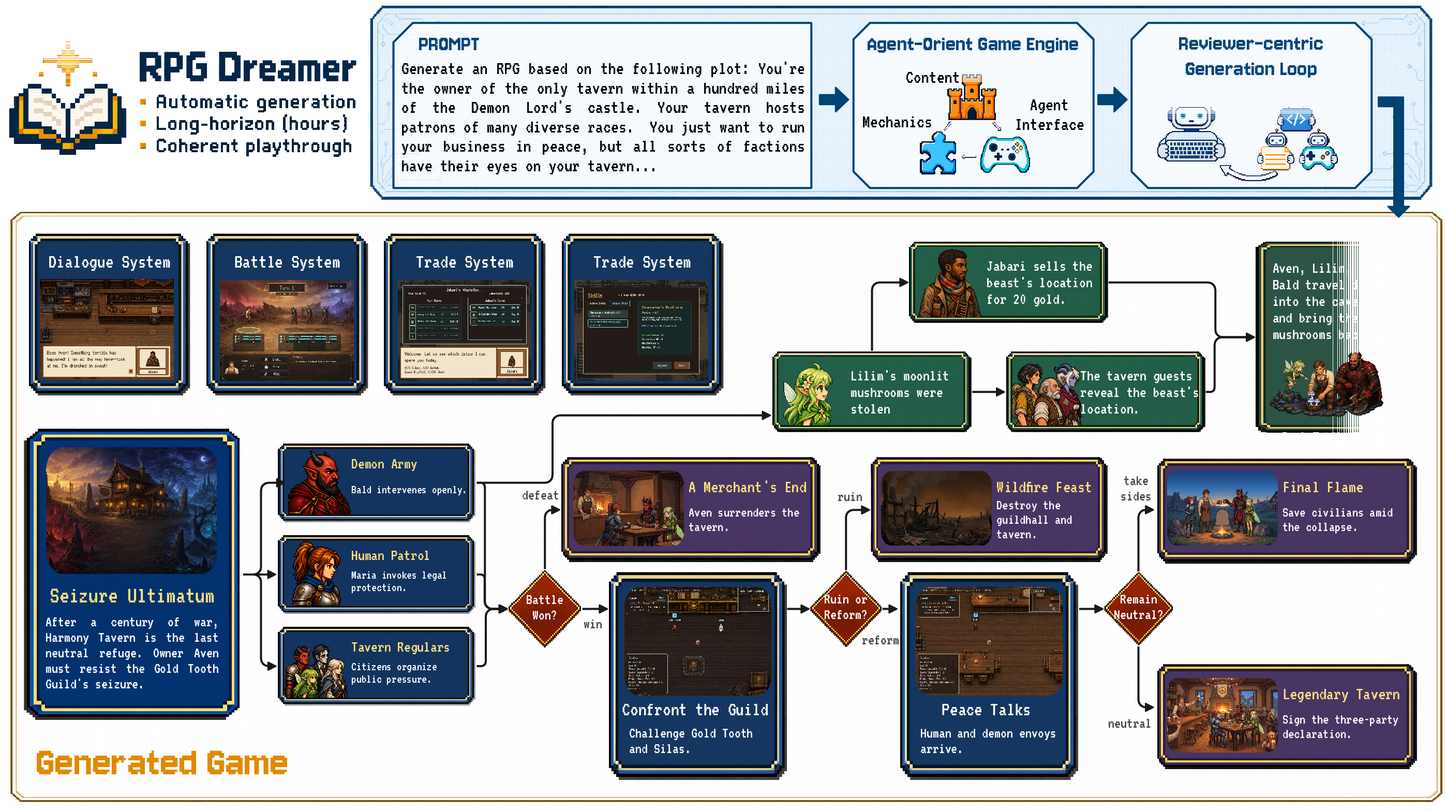
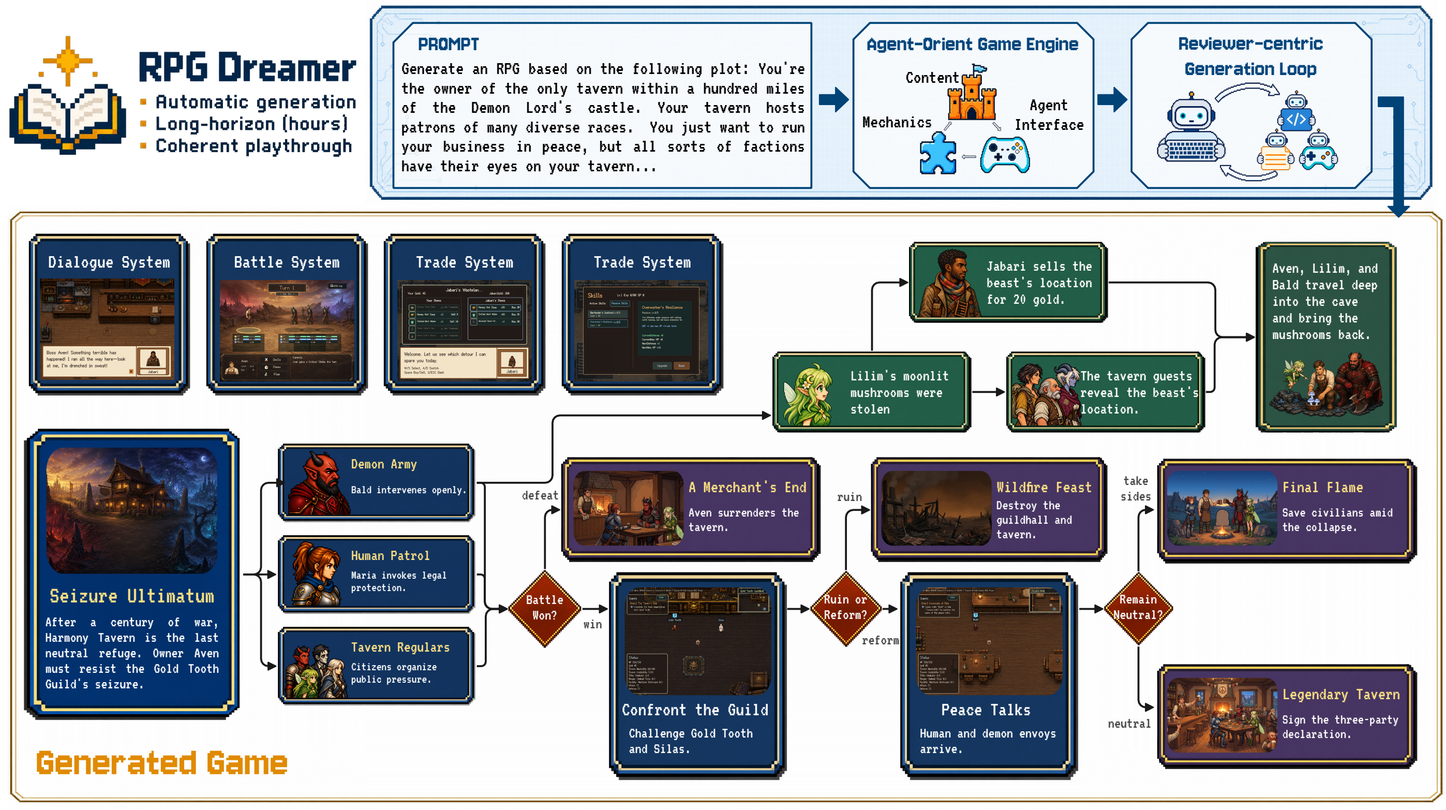
Replace incomplete teaser rendering

diff --git a/index.html b/index.html
@@ -1727,7 +1727,7 @@ body.hero-sequence-revealed .hero-content::after {
       <div class="overview-gallery">
         <figure class="overview-figure reveal" id="teaser">
           <h2 class="paper-heading">Teaser</h2>
-          <img src="teaser.png?v=20260821-01" alt="RPG Dreamer teaser showing automatic generation and a long-horizon generated RPG" loading="lazy">
+          <img src="teaser.png?v=20260827-02" alt="RPG Dreamer teaser showing automatic generation and a long-horizon generated RPG" loading="lazy">
           <figcaption class="overview-figure-caption">
             <strong>Capability overview of RPG Dreamer.</strong> Gameplay screenshots serve as narrative nodes in an hours-long, left-to-right progression whose routes branch, reconverge, and branch again as player decisions alter persistent story state. Distinct final choices lead to four visibly different endings.
           </figcaption>
